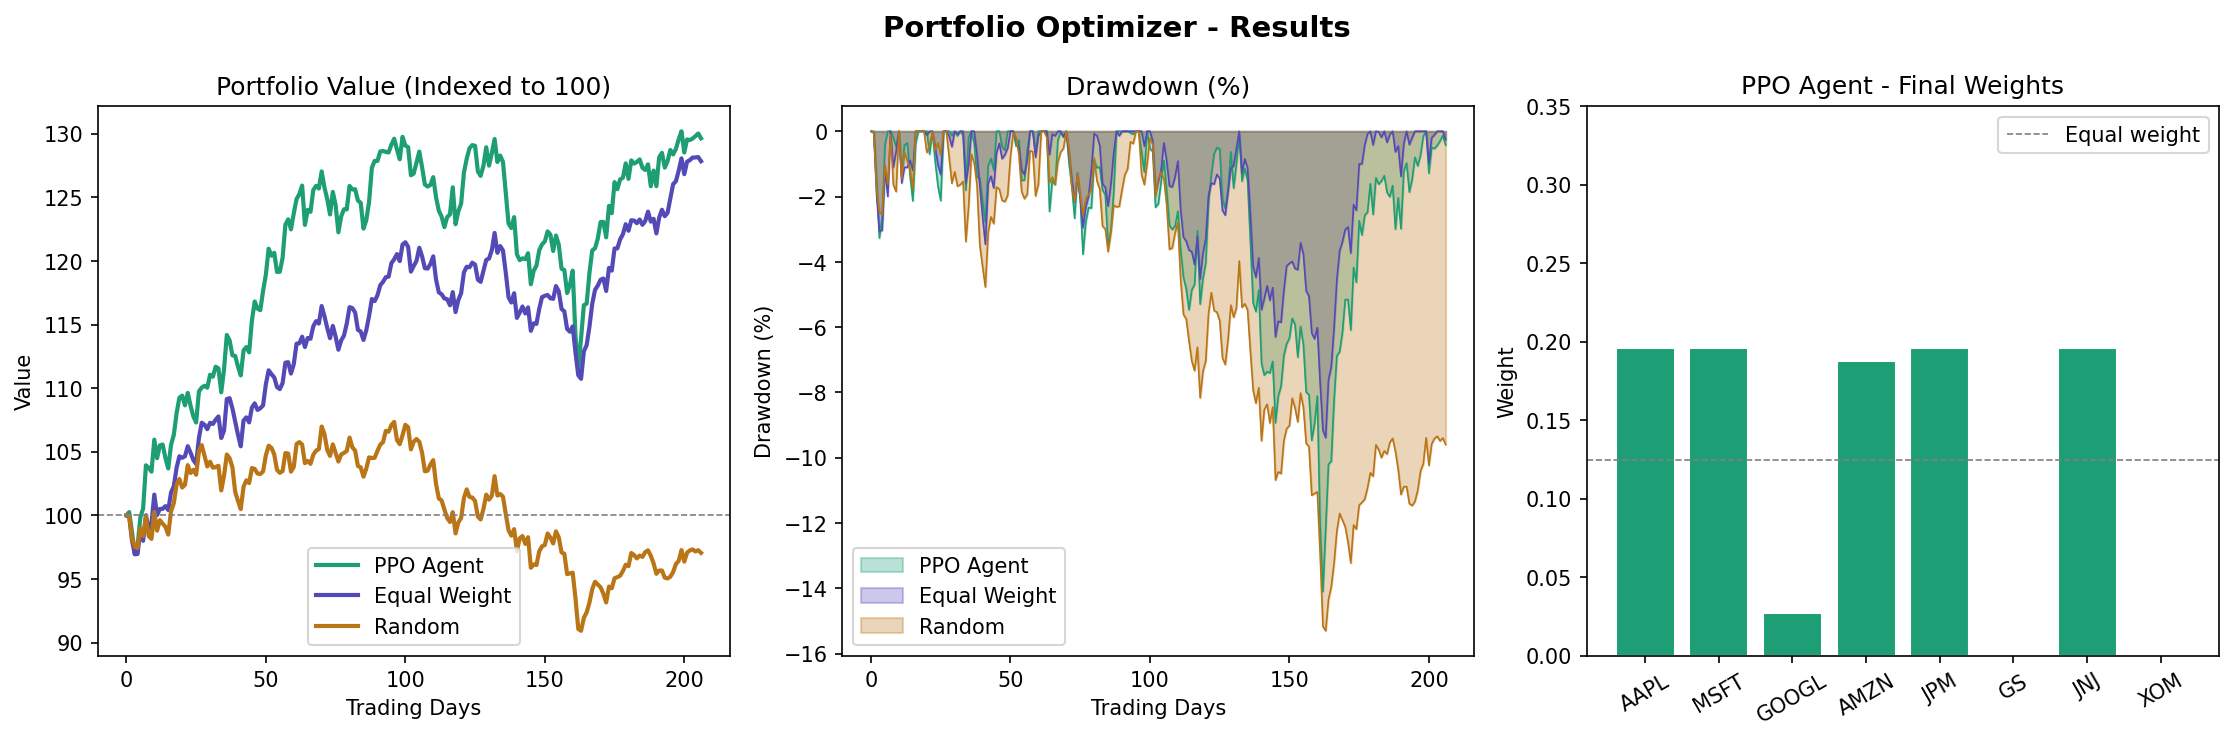
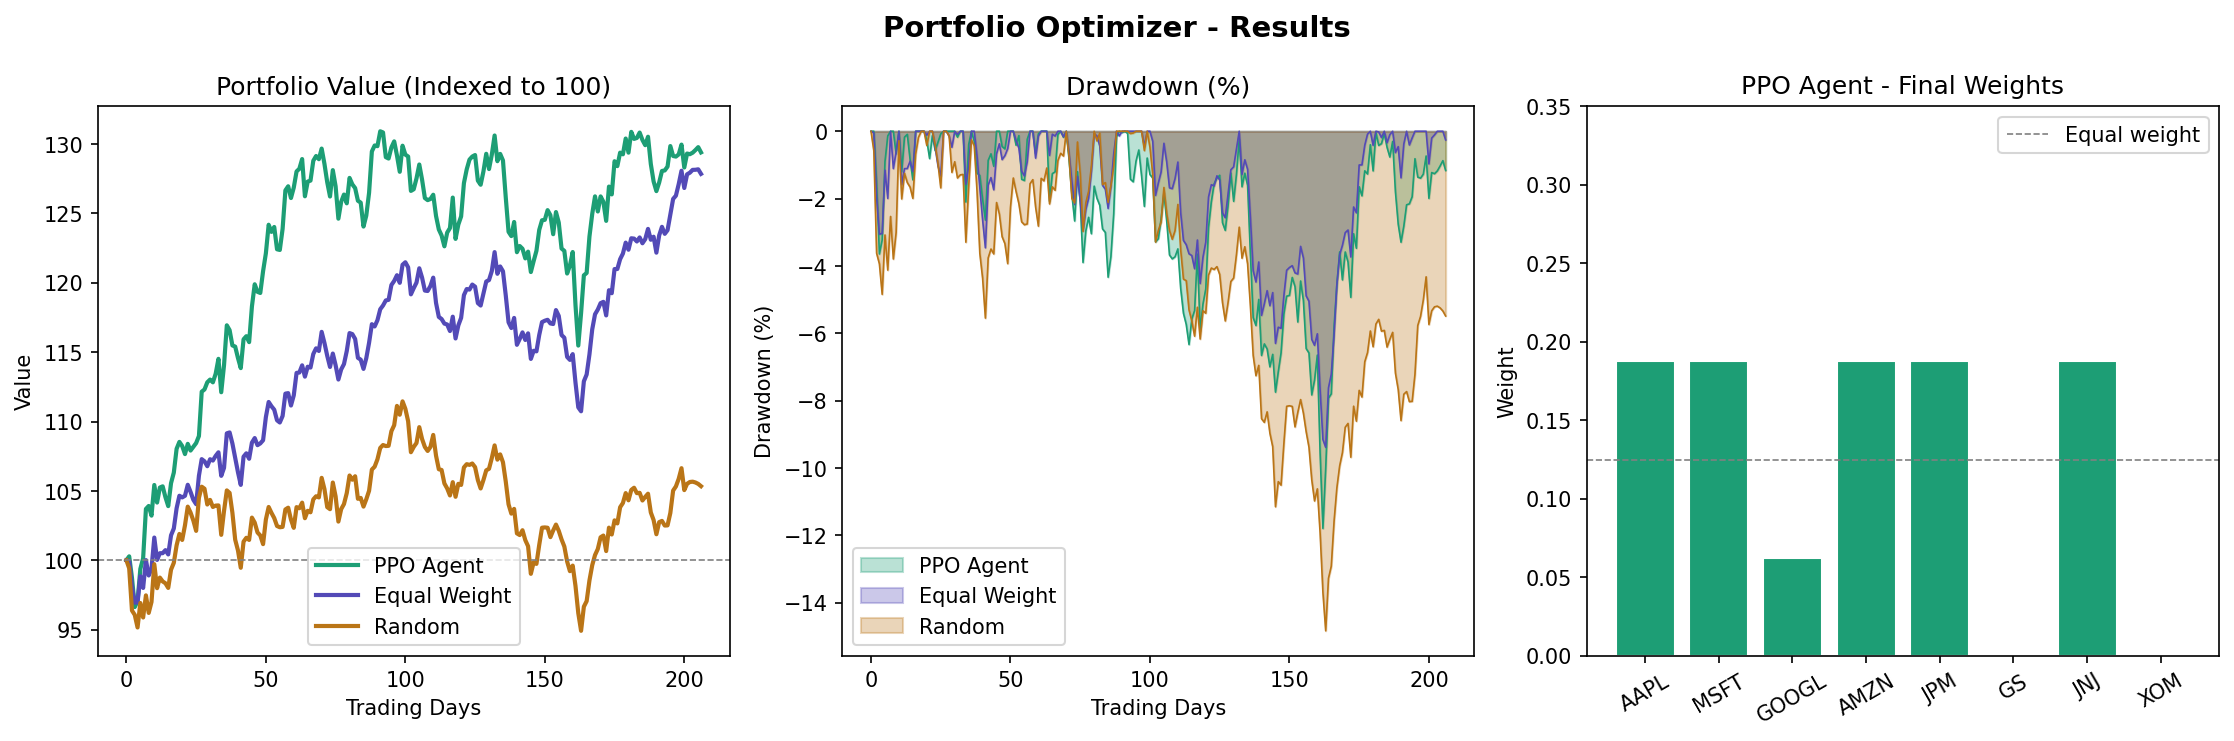
using the model

diff --git a/use_model.py b/use_model.py
@@ -1,0 +1,24 @@
+from stable_baselines3 import PPO
+from environment import PortfolioEnv
+from data_loader import fetch_real_data, train_val_test_split
+from backtester import run_backtest, compare_results, plot_results
+from agent import EqualWeightAgent, RandomAgent
+
+full_dataframe = fetch_real_data(["AAPL", "MSFT", "GOOGL", "AMZN", "JPM", "GS", "JNJ", "XOM"])
+train_dataframe, val_dataframe, test_dataframe = train_val_test_split(full_dataframe)
+
+ASSETS = ["AAPL", "MSFT", "GOOGL", "AMZN", "JPM", "GS", "JNJ", "XOM"]
+
+test_environment = PortfolioEnv(dataframe=test_dataframe, assets=ASSETS)
+
+# load model — no training, just use it
+model = PPO.load("./logs/ppo_portfolio")
+
+# run backtest and see results
+all_results = []
+all_results.append(run_backtest(test_environment, model,                         "PPO Agent"))
+all_results.append(run_backtest(test_environment, EqualWeightAgent(len(ASSETS)), "Equal Weight"))
+all_results.append(run_backtest(test_environment, RandomAgent(len(ASSETS)),      "Random"))
+
+compare_results(all_results)
+plot_results(all_results, assets=ASSETS)
